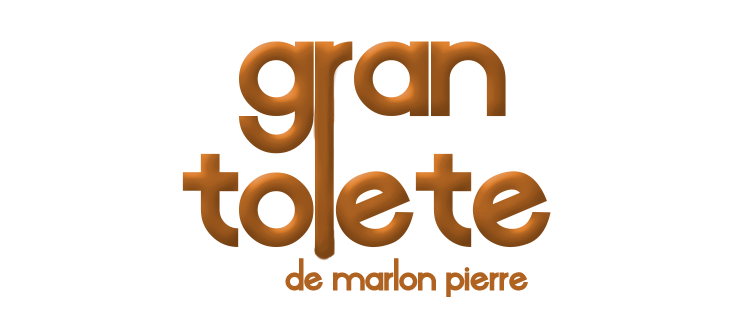
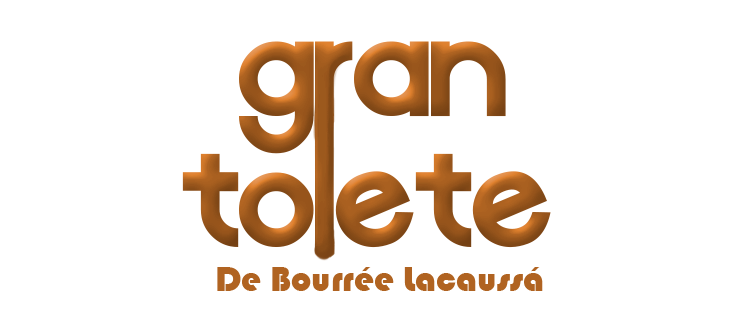
V10 Atualizações 2023
Novos texto, novas imagens, novas logos, mas o "mesmo" código.

Changed region(s): [[0.2756, 0.81, 0.735, 0.9346]]

diff --git a/index.html b/index.html
@@ -90,8 +90,8 @@
                         <img src="./imagens/nuvem/cloud1.png" style="--i: 1" />
                         <img src="./imagens/nuvem/cloud2.png" style="--i: 2" />
                         <img src="./imagens/nuvem/cloud3.png" style="--i: 3" />
-                        <img src="./imagens/nuvem/cloud4.png" style="--i: 4" />
-                        <img src="./imagens/nuvem/cloud5.png" style="--i: 5" />
+                        <img src="./imagens/nuvem/cloud4.png" style="--i: 3.5"/>
+                        <img src="./imagens/nuvem/cloud5.png" style="--i: 4" />     
                     </div>
                 </div>
             </div>
@@ -121,8 +121,8 @@
                         data-aos-duration="1500"
                         data-aos-easing="ease-out-cubic">
                         KSO (Kussuado) é uma rede mundial de lojas de perfume de luxo fundado em 2015 por Anderson Gaveta, 
-                        sócio fundador da Gaveta Filmes e criador do maior sucesso da indústria farmacêutica: GRITASMIL, 
-                        com parceira da atriz e cantora francesa Suellen Cristina, conhecida pela sua música de maior sucesso: Kuduro.
+                        sócio fundador da <a class="link_style" href="https://www.gavetafilmes.com.br/">Gaveta Filmes</a> e criador do maior sucesso da indústria farmacêutica: GRITASMIL, 
+                        com parceira de Suellen Cristina, uma das mais famosas dançarinas de Kuduro.
                         </p>
 
                     </div>
@@ -161,8 +161,8 @@
                         <div class="col-lg-12 " >
     
                             <p class=kussuado> 
-                                Kussuado foi a primeira linha de perfume da KSO em 2015. Foi campeão de vendas com mais de 1 milhão de cópias 
-                                e agora está de volta com sua linha Premium Classic Original Edition, o mesmo de 7 anos atrás, mas com aquele 
+                                Kussuado foi a primeira linha de perfume da KSO em 2015. Foi campeão de vendas com mais de 1 milhão de cópias no seu lançamento 
+                                e agora está de volta com sua linha Premium Classic Original Edition, o mesmo de 8 anos atrás, mas com aquele 
                                 toque nostálgico.
                             </p>
                             <div class="ratio ratio-16x9">
@@ -204,14 +204,19 @@
                             <div class="col-lg-12 " >
                                 <p class=tolete> 
                                     Gran Tolete é o mais novo perfume da KSO, vindo direto da França, para pessoas que não fazem corpo mole.
-                                    Fresco e energético, com 75% de água e 25% do que não é água, ele deixa um rastro vibrante e revigorante. 
-                                    Onde você passar, vai dar o que falar.
+                                    Fresco e energético, com 75% de água e 25% do que não é água. No fundo, o perfume envolve-se nas deliciosas facetas 
+                                    cremosas do chocolate preto e do pralinê.
+                                    Gran Tolete deixa um rastro vibrante e revigorante. Onde você passar, vai dar o que falar.
+
+                                    <br>
+                                    <br>
+                                    EM BREVE
                                 </p>
-                                <div class="ratio ratio-16x9">
+                                <!-- <div class="ratio ratio-16x9">
                                     <video controls>
                                         <source src="" type="video/mp4" allowfullscreen></source>
                                     </video>
-                                </div> 
+                                </div>  -->
                             </div>   
                     </div>      
                 </div> 
@@ -235,12 +240,16 @@
                     </div>
                     <div class="row justify_content_center text-center ">
                             <div class="col-lg-12 " >
-                                <h1>SHEILA & PIETRO:</h1>
-                                <h2></h2>
+                                <img src="imagens/sheyla_mall.png" class="img-fluid" alt="Responsive image"> 
+                                <br> 
                             </div>   
-
-                            <p> 
-                               EM BREVE
+                            <p class=sheyla>
+                                Sheyla Mall é o mais novo perfume da KSO, de origem irlandesa, que proporciona voluptuosidade sobre as notas naturais e orgânicas de:
+                                águinha de salsicha, casca de ovos centenarios e um toque de  frutas citricas adormecidos ao sol durante 20 dias.
+                                Um perfume perfeito para usar em um salão fechado de alta classe com pouca ventilação e com muita gente para ser atraido por seu mais novo odor!  
+                                <br>
+                                <br>
+                                EM BREVE
                             </p>
 
                     </div>    
@@ -280,7 +289,7 @@
                         <div class="owl-carousel anuncio">
                             <div class="item"> <img src="imagens/cart/gaveta.png" class="img-fluid" data-bs-toggle="modal"   data-bs-target="#myModal" alt=""></div>
                             <div class="item"> <img src="imagens/cart/tolete.png" class="img-fluid" data-bs-toggle="modal"  data-bs-target="#myModal2"  alt=""> </div>
-                            <div class="item"> <img src="https://images.unsplash.com/photo-1600722230999-22c256d38cb7?ixlib=rb-1.2.1&ixid=eyJhcHBfaWQiOjEyMDd9&auto=format&fit=crop&w=500&q=60" class="img-fluid" data-bs-toggle="modal"   data-bs-target="#myModal3" alt=""> </div>
+                            <div class="item"> <img src="imagens/cart/sheyla.png" class="img-fluid" data-bs-toggle="modal"  data-bs-target="#myModal3"  alt=""> </div>
                         </div>
                 </div>
             </div> 
@@ -316,7 +325,7 @@
                             <h4 class="mb-3">Anderson Gaveta</h4>
                             <p>
                                 <i class="fas fa-quote-left pe-2"></i>
-                                Perfumes maravilhosos, não só porque eu crie, mas também porque investi milhões nisso!
+                                Perfumes maravilhosos, mas maravilhoso mesmo é deixar seu Like e Inscrever no <a href="https://www.youtube.com/@gaveta">Canal</a>
                             </p>
                             <ul class="list-unstyled d-flex justify-content-center text-warning mb-0">
                                 <li><i class="fas fa-star fa-sm"></i></li>
@@ -373,7 +382,7 @@
                             <h4 class="mb-3">Pruno San</h4>
                             <p>
                                 <i class="fas fa-quote-left pe-2"></i>
-                                Todos os perfumes do KSO são incriveis e o site então...nem se fala.
+                                Todos os perfumes do KSO são incriveis e o site então...nem se fala
                                 <br>
                             </p>
                             <ul class="list-unstyled d-flex justify-content-center text-warning mb-0">
@@ -392,9 +401,9 @@
                             <h4 class="mb-3">Capitão Foda-se</h4>
                             <p>
                                 <i class="fas fa-quote-left pe-2"></i>
-                                FODA-SEEEEEEEEEEEEEEEEEEEEEEEEEEE
+                                FODA-SEEEEEEEEEEEEEEEEEEEEEEEEE
                                 <br>
-                                gosto muito!
+                                EEEEEEEEEEEEEEEEEEEEEEEEEEEEEEEEE
                             </p>
                             <ul class="list-unstyled d-flex justify-content-center text-warning mb-0">
                                 <li><i class="fas fa-star fa-sm"></i></li>
@@ -451,34 +460,11 @@
     </div>
 
 
-
-
-
-
-
-
-
-
-
-
-
-
-
-
-
-
-
-
-
-
-
-
-    
 	<div class="final">
 		<div class="container">
 			<div class="row">
 				<div class="col-12 text-center">
-					Copyright@2022 <span>PrunoSan</span> All Rights Reserved
+					Copyright@2023 <span><a href="https://www.instagram.com/prunosan/">PrunoSan</a></span> All Rights Reserved
 				</div>
 			</div>
 		</div>

diff --git a/css/estilo.css b/css/estilo.css
@@ -26,6 +26,7 @@
     box-sizing: border-box;
 }
 
+
 .modal-backdrop {
     background-color: var(--corFundo2);
  }
@@ -103,6 +104,21 @@
        -webkit-background-clip:text;
 }
 
+.sheyla{
+    background-image: linear-gradient(
+        to right,
+        #deb283 0,
+        #a55a3f 22%,  
+        #e2a782 45%,
+        #deb283  50%,
+        #e2a782 55%,
+        #a55a3f 78%,
+        #deb283  100%  
+        );
+       color:transparent;
+       -webkit-background-clip:text;
+}
+
 
 @import url(https://fonts.googleapis.com/css?family=Droid+Sans);
 .loader {
@@ -130,6 +146,8 @@
     background: var(--corFundo1);
     color: var(--corTexto2);
 }
+
+
 
 :root{
     --corFundo1:#181818;
@@ -404,6 +422,10 @@ h2{
     color: var(--corTexto1);
 }
 
+.sobre a  {
+    color: var(--corTexto1);
+   }
+
 
 
 .dividir{
@@ -441,6 +463,9 @@ h2{
     margin-bottom: 30px;
 }
 
+.reviews a{
+    color: var(--corTexto2);
+}
 
 
 .banner{
@@ -492,6 +517,10 @@ h2{
 }
 
 
+.final a{
+    color: var(--corTexto1);
+}
+
 .produto{
     min-height: 100vh;
     width: 100%;
@@ -536,5 +565,7 @@ h2{
     padding-top:35px ;
     padding-bottom: 30px;
 }
+
+
 
 
